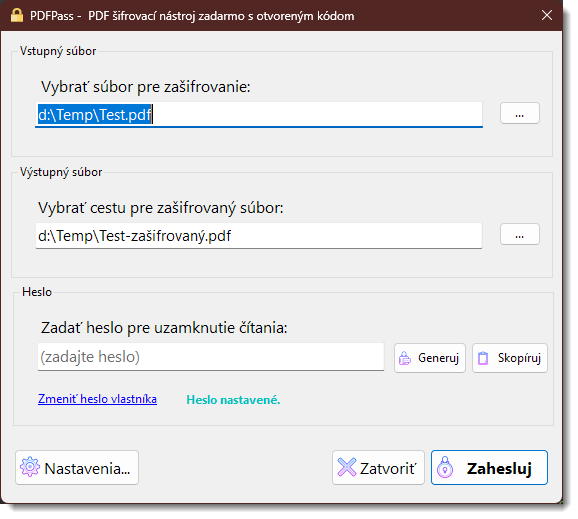
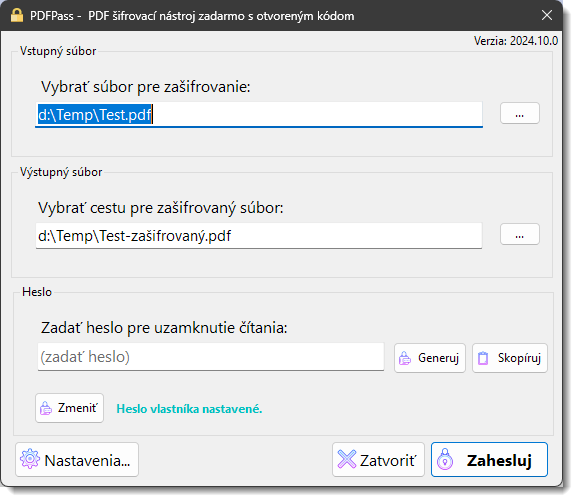
Visual improvements

diff --git a/frmMain.Designer.cs b/frmMain.Designer.cs
@@ -179,7 +179,7 @@ namespace PDFPass
             // 
             btnChangePassword.Image = (Image)resources.GetObject("btnChangePassword.Image");
             btnChangePassword.ImageAlign = ContentAlignment.MiddleLeft;
-            btnChangePassword.Location = new Point(24, 108);
+            btnChangePassword.Location = new Point(21, 108);
             btnChangePassword.Margin = new Padding(2);
             btnChangePassword.Name = "btnChangePassword";
             btnChangePassword.Size = new Size(71, 32);
@@ -272,7 +272,7 @@ namespace PDFPass
             txtPassword.Location = new Point(24, 58);
             txtPassword.Margin = new Padding(2);
             txtPassword.Name = "txtPassword";
-            txtPassword.PlaceholderText = "(zadajte heslo)";
+            txtPassword.PlaceholderText = "(zadať heslo)";
             txtPassword.Size = new Size(348, 29);
             txtPassword.TabIndex = 8;
             txtPassword.TextChanged += txtPassword_TextChanged;

diff --git a/AssemblyInfo.cs b/AssemblyInfo.cs
@@ -1,5 +1,5 @@
 using System.Reflection;
 
-[assembly: AssemblyVersion("2024.10.0")]
+[assembly: AssemblyVersion("2024.10.1")]
 [assembly: AssemblyDescription("Free PDF Encryption Utility in Slovak")]
 [assembly: AssemblyProduct("PDFPass")]
